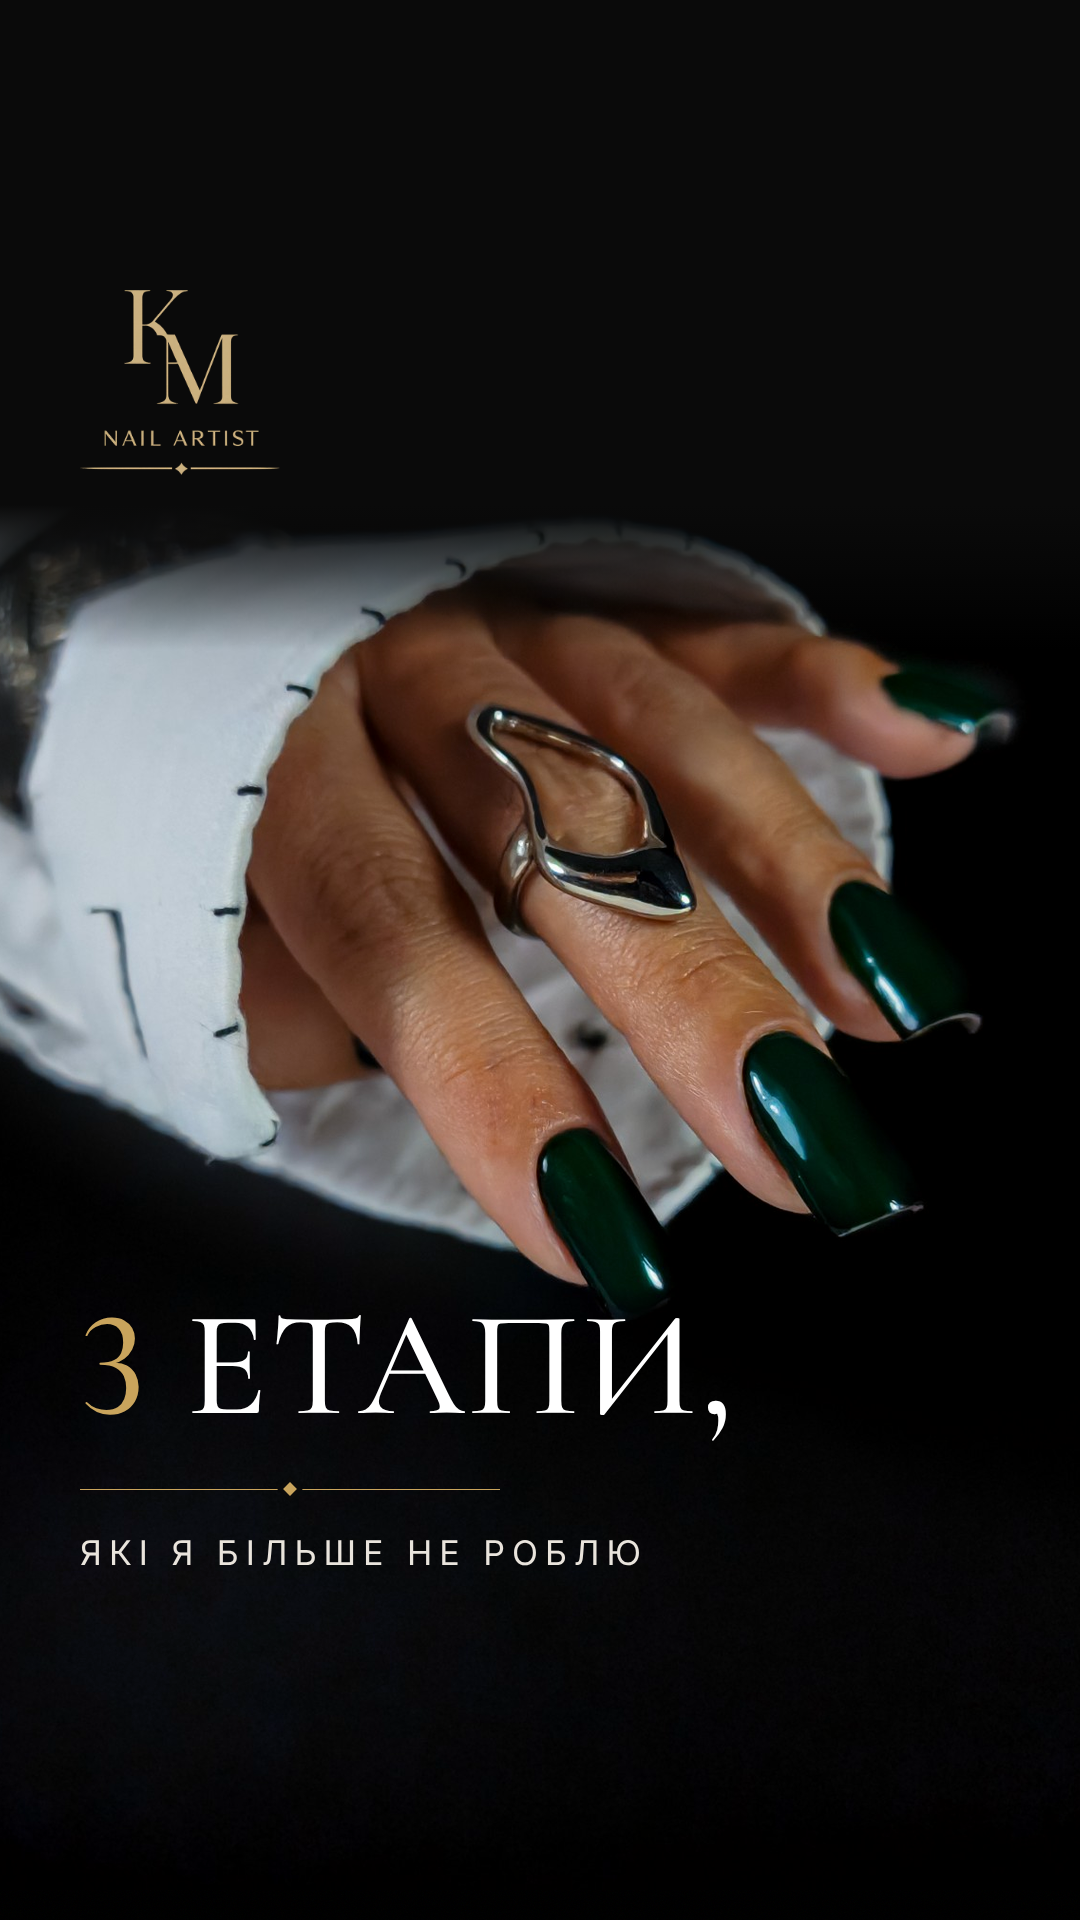
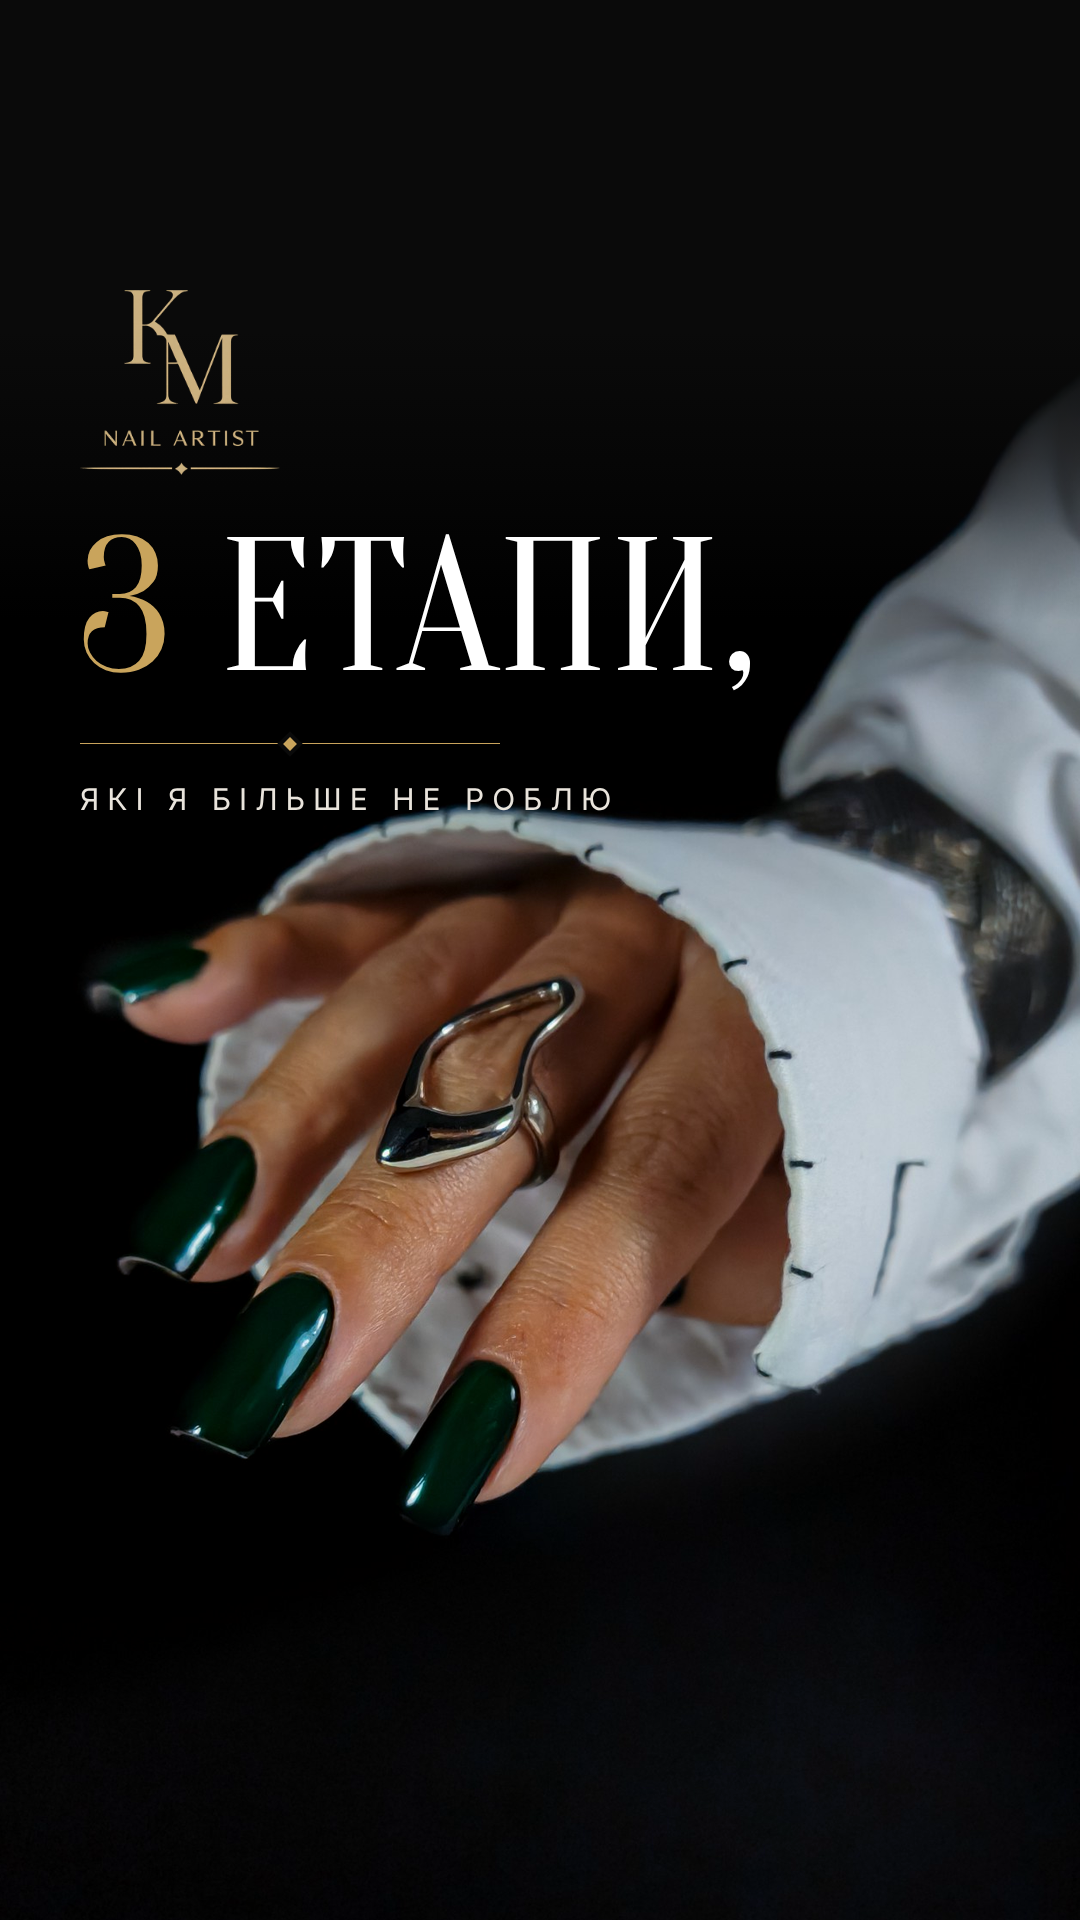
Restyle Reels cover to match the account's covers: top title in Oranienbaum, mirrored full-bleed photo
Claude-Session: https://claude.ai/code/session_01MEGGhSdPE82PkZyTaQrXUD

diff --git a/reels-covers/cover916.js b/reels-covers/cover916.js
@@ -7,6 +7,7 @@ const { chromium } = require('playwright');
 const bg = path.resolve(process.argv[2]);
 const textTop = Number(process.argv[4] || 1190);
 const shadeEnd = Number(process.argv[5] || 800);
+const solidEnd = Number(process.argv[6] || 505);
 const out = path.resolve(process.argv[3]);
 
 const LOGO = { left: 80, top: 290, width: 200 };
@@ -16,20 +17,22 @@ const subtitle = 'які я більше не роблю';
 const html = `<!doctype html><html><head><meta charset="utf-8"><style>
 @font-face { font-family: C; src: url('fonts/Cormorant.ttf'); font-weight: 300 700; }
 @font-face { font-family: I; src: url('fonts/Inter-Regular.otf'); }
+@font-face { font-family: O; src: url('fonts/oranienbaum-cyrillic-400-normal.woff2'); }
+@font-face { font-family: O; src: url('fonts/oranienbaum-latin-400-normal.woff2'); }
 * { margin: 0; box-sizing: border-box; }
 body { width: 1080px; height: 1920px; position: relative; overflow: hidden; background: #0a0a0a; }
 .bg { position: absolute; inset: 0; width: 1080px; height: 1920px; }
 /* притемнення під логотипом */
 .shade { position: absolute; left: 0; right: 0; top: 0; height: ${shadeEnd}px;
-  background: linear-gradient(#0a0a0a 0px, #0a0a0a 505px, rgba(10,10,10,.6) ${505 + (shadeEnd - 505) * 0.45}px, rgba(10,10,10,0) ${shadeEnd}px); }
+  background: linear-gradient(#0a0a0a 0px, #0a0a0a ${solidEnd}px, rgba(10,10,10,.6) ${solidEnd + (shadeEnd - solidEnd) * 0.45}px, rgba(10,10,10,0) ${shadeEnd}px); }
 .logo { position: absolute; left: ${LOGO.left}px; top: ${LOGO.top}px; width: ${LOGO.width}px; }
 .t { position: absolute; left: 80px; right: 200px; top: ${textTop}px; color: #fff; font-family: C, serif; font-variant-numeric: lining-nums; }
-h1 { font-size: 150px; font-weight: 500; line-height: 1; letter-spacing: 3px; text-transform: uppercase; }
+h1 { font-family: O, serif; font-size: 190px; font-weight: 400; line-height: 0.95; letter-spacing: 1px; text-transform: uppercase; }
 .acc { color: #c9a45c; }
-.rule { position: relative; width: 420px; height: 14px; margin: 42px 0 36px; }
+.rule { position: relative; width: 420px; height: 14px; margin: 36px 0 30px; }
 .rule::before { content: ''; position: absolute; left: 0; right: 0; top: 6.5px; height: 1px; background: #c9a45c; }
 .rule i { position: absolute; left: 50%; top: 0; width: 14px; height: 14px; margin-left: -7px; background: #c9a45c; transform: rotate(45deg) scale(.7); box-shadow: 0 0 0 6px #0a0a0a; }
-.sub { font-family: I, sans-serif; font-size: 34px; letter-spacing: 7px; text-transform: uppercase; color: #e9e4dc; }
+.sub { font-family: I, sans-serif; font-size: 30px; letter-spacing: 8px; text-transform: uppercase; color: #e9e4dc; }
 </style></head><body>
 <img class="bg" src="file://${bg}">
 <div class="shade"></div>

diff --git a/reels-covers/prep916.py b/reels-covers/prep916.py
@@ -1,7 +1,7 @@
 """Готує фон 1080×1920 з фото 4:5: опускає чорну точку фону до ~#0A0A0A
 і добудовує темний низ кадру тим самим тоном із легким зерном, щоб не було шва.
 Використання: python3 prep916.py photos/in.jpg photos/out-916.png [зсув_вниз] [масштаб] [x_початку_кадру]
-Масштаб і x — у пікселях оригіналу; без них фото вписується по ширині."""
+Масштаб і x — у пікселях оригіналу; без них фото вписується по ширині. 'flip' — дзеркально."""
 import sys
 
 import numpy as np
@@ -14,6 +14,8 @@ W, H = 1080, 1920
 im = Image.open(src).convert('RGB')
 scale = float(sys.argv[4]) if len(sys.argv) > 4 else W / im.width
 x0 = int(sys.argv[5]) if len(sys.argv) > 5 else 0
+if len(sys.argv) > 6 and sys.argv[6] == 'flip':
+    im = im.transpose(Image.FLIP_LEFT_RIGHT)
 im = im.resize((round(im.width * scale), round(im.height * scale)), Image.LANCZOS)
 im = im.crop((round(x0 * scale), 0, round(x0 * scale) + W, im.height))
 a = np.asarray(im, dtype=np.float32)
